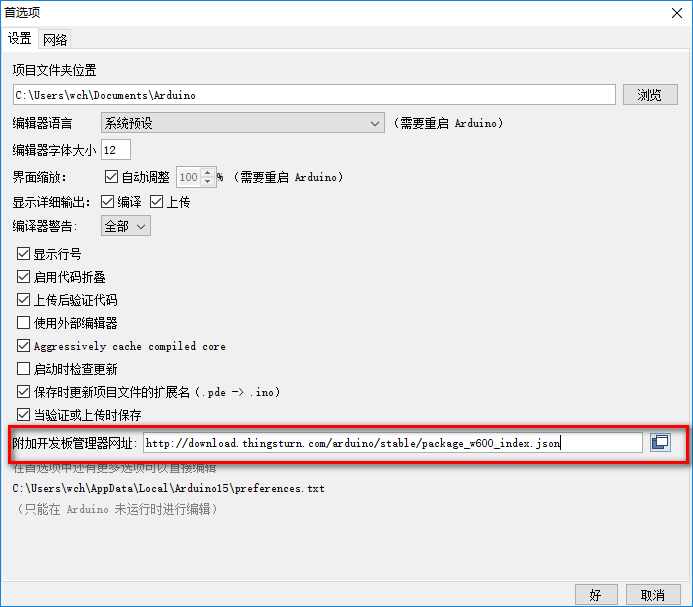
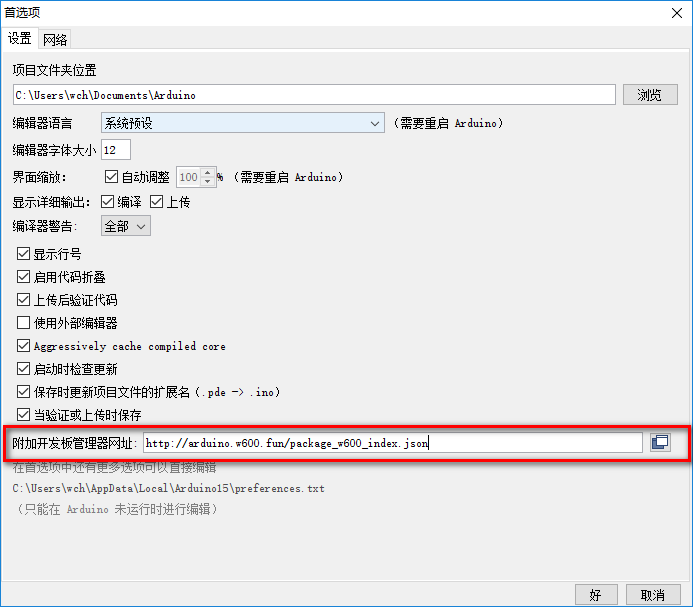
update index json url

Changed region(s): [[0.0, 0.682, 1.0, 0.771], [0.1212, 0.1779, 0.5758, 0.2372], [0.0303, 0.8007, 0.4242, 0.8303]]

diff --git a/README.md b/README.md
@@ -13,7 +13,7 @@
 ## 3. 环境搭建
 
 1. 通过 https://www.arduino.cc/en/Main/Software 下载 Arduino IDE 开发环境，建议使用最新版本。
-2. 启动 Arduino，并打开“首选项”窗口。在附加开发板管理器网址中添加`http://download.thingsturn.com/arduino/stable/package_w600_index.json`
+2. 启动 Arduino，并打开“首选项”窗口。在附加开发板管理器网址中添加`http://arduino.w600.fun/package_w600_index.json`
 ![](doc/img/1556334078542.png)
 3. 打开菜单【工具】-》【开发板】-》【开发板管理器】
 
@@ -52,4 +52,4 @@
 
 ## 4 其他
 
-有任何疑问和建议，可咨询 support@thingsturn.com 或加QQ群 86032006 沟通。
+有任何疑问和建议，可在问答社区 https://ask.w600.fun 提出问题。
